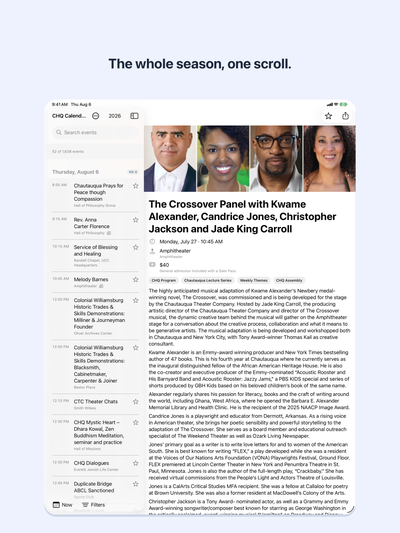
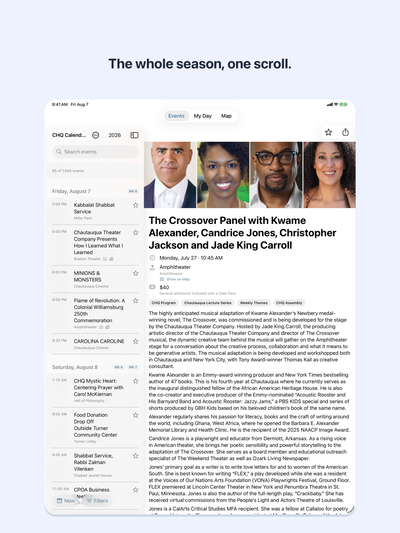
chore(app-store): regenerate screenshots for 1.1 surfaces (#183)
Extend the screenshot plan with the four new 1.1 surfaces and
regenerate every store asset on both device classes:

- 07-my-day: seeded real overlapping events (101207/99511 +
  96951, 2026-07-27) under -uitest-freeze-now, landing on the
  My Day tab via the new -uitest-tab hook
- 08-map: grounds map with every venue pin (longer settle for
  tile loading)
- 09-reminder: starred event detail with the "Remind me" row,
  using linked-event index 2 for listing variety
- 10-widget: Home Screen with the Next Up + Starred widgets;
  iPhone shot captured via idb SpringBoard automation against a
  signed build (App Group entitlement requires signing); iPad
  remains manual:true with a step-by-step manualNote

New DEBUG-only -uitest-tab <events|my-day|map> hook in
CalendarView.applyUITestHooks feeds model.pendingDeepLink, the
same pipeline every real tab-switching surface uses.

Pipeline now actually supports manual shots: capture skips them,
compose skips only when the raw is missing (a hand-taken raw
flows through normally), and the quality check exempts them from
the alert-overlay heuristics (widget cards trip the boxed-region
signal by design) while keeping the duplicate check.

19 screenshots in the manifest (10 iPhone, 9 iPad); quality check
passed on both sets; full iOS suite green (535 tests).

Claude-Session: https://claude.ai/code/session_01E3CkQBCZ5dFriS3JsRaKUG

Changed region(s): [[0.12, 0.1801, 0.9, 0.9906], [0.27, 0.2101, 0.3, 0.2702]]

diff --git a/ios/ChqCalendar/Features/Calendar/CalendarView.swift b/ios/ChqCalendar/Features/Calendar/CalendarView.swift
@@ -238,6 +238,27 @@ struct CalendarView: View {
             }
         }
 
+        // `-uitest-tab <events|my-day|map>` lands the app on the named root
+        // tab by feeding `model.pendingDeepLink` — the exact pipeline every
+        // real tab-switching surface (URL, widget, notification, Spotlight,
+        // App Intent) already goes through, so `RootTabView`'s
+        // `.onChange(of: model.pendingDeepLink)` routing performs the switch
+        // and consumes the link. Runs after `-uitest-seed-favorites` above so
+        // a My Day screenshot launch can seed its plan and then land on the
+        // tab that displays it. "events" (the default tab) and unknown
+        // values are deliberate no-ops.
+        if let flagIndex = arguments.firstIndex(of: "-uitest-tab"),
+           arguments.index(after: flagIndex) < arguments.endIndex {
+            switch arguments[arguments.index(after: flagIndex)] {
+            case "my-day":
+                model.pendingDeepLink = .myDay
+            case "map":
+                model.pendingDeepLink = .map(venue: nil)
+            default:
+                break
+            }
+        }
+
         // `-uitest-search <term>` reads the argument that follows it and
         // commits it straight to `model.filter.searchText`. `searchDraft` is
         // set too so the visible search field shows the term, but the

diff --git a/ios/Scripts/check-screenshots.py b/ios/Scripts/check-screenshots.py
@@ -151,13 +151,21 @@ def sha256_of(path: Path) -> str:
 
 
 def modal_shot_ids(plan_path: Path | None) -> set[str]:
-    """Shot ids marked `"presentsModal": true` in the plan — excluded from
-    both alert-overlay signals (see module docstring). Empty set if no
-    plan was given."""
+    """Shot ids excluded from both alert-overlay signals (see module
+    docstring): those marked `"presentsModal": true`, plus those marked
+    `"manual": true`. A manual shot's raw is taken and reviewed by a human
+    by definition, and its content (e.g. 10-widget's Home Screen, where a
+    widget card is exactly a wide, centered, edge-clear bright island)
+    legitimately trips the boxed-region heuristic. The duplicate check
+    still applies to every shot. Empty set if no plan was given."""
     if plan_path is None:
         return set()
     plan = json.loads(plan_path.read_text())
-    return {shot["id"] for shot in plan.get("shots", []) if shot.get("presentsModal")}
+    return {
+        shot["id"]
+        for shot in plan.get("shots", [])
+        if shot.get("presentsModal") or shot.get("manual")
+    }
 
 
 def check_set(directory: Path, skip_ids: set[str]) -> list[str]:

diff --git a/ios/Scripts/compose-screenshots.py b/ios/Scripts/compose-screenshots.py
@@ -169,6 +169,15 @@ def main() -> int:
         for shot in plan["shots"]:
             raw_path = RAW_ROOT / key / f"{shot['id']}.png"
             if not raw_path.exists():
+                if shot.get("manual"):
+                    # Manual shots (e.g. 10-widget, which lives on
+                    # SpringBoard) can't be captured by
+                    # capture-screenshots.sh; a missing raw is expected
+                    # until a human takes it per the shot's manualNote.
+                    # When the raw IS present, it flows through composition
+                    # and the manifest exactly like an automated shot.
+                    print(f"  {key}/{shot['id']}.png  SKIPPED (manual shot, raw not taken yet — see manualNote in screenshot-plan.json)")
+                    continue
                 missing.append(str(raw_path.relative_to(REPO_ROOT)))
                 continue
 
